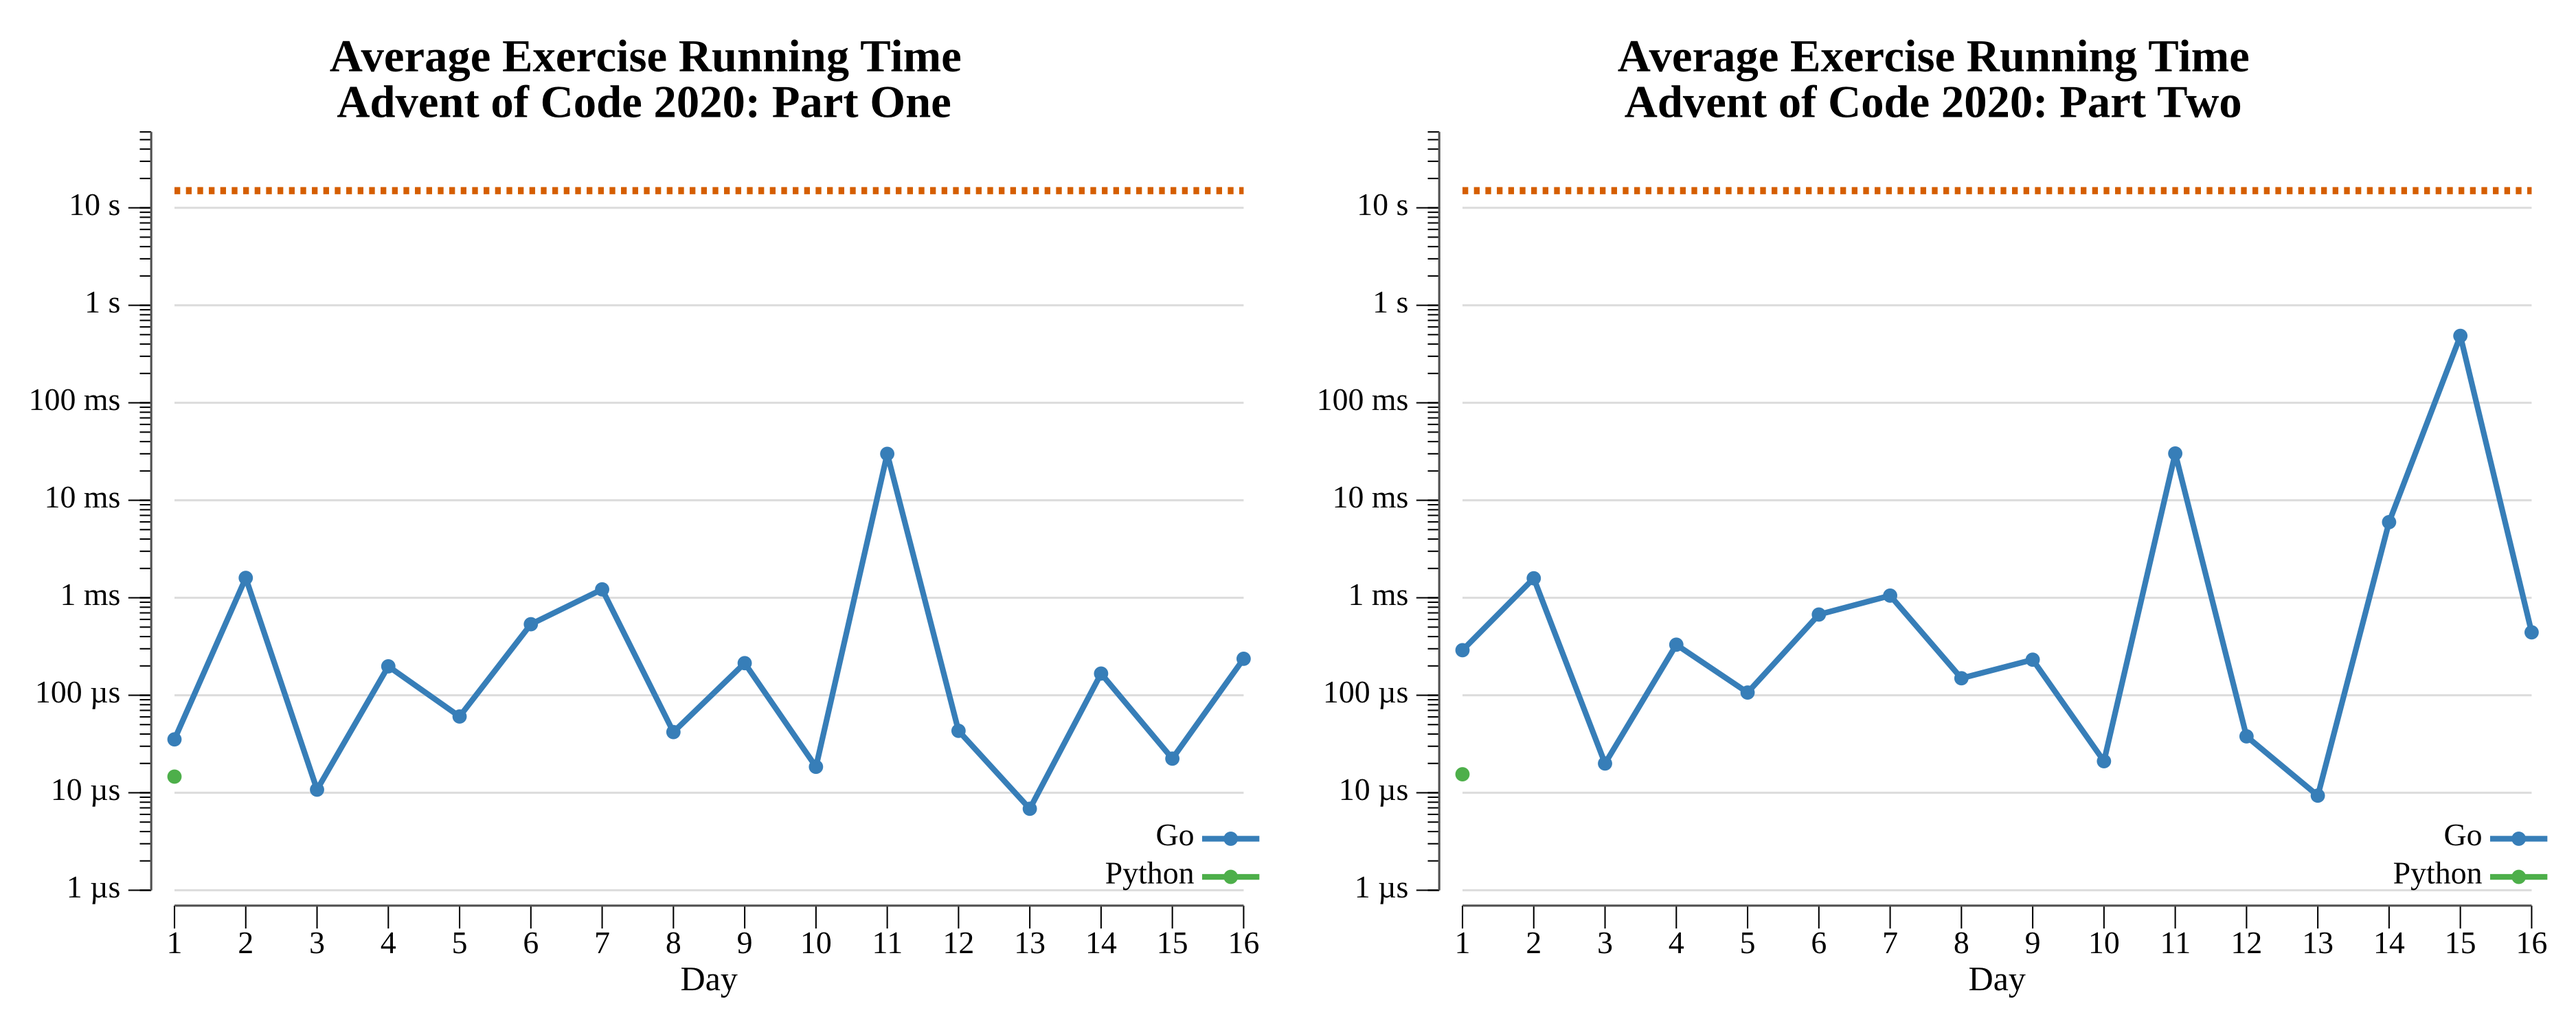
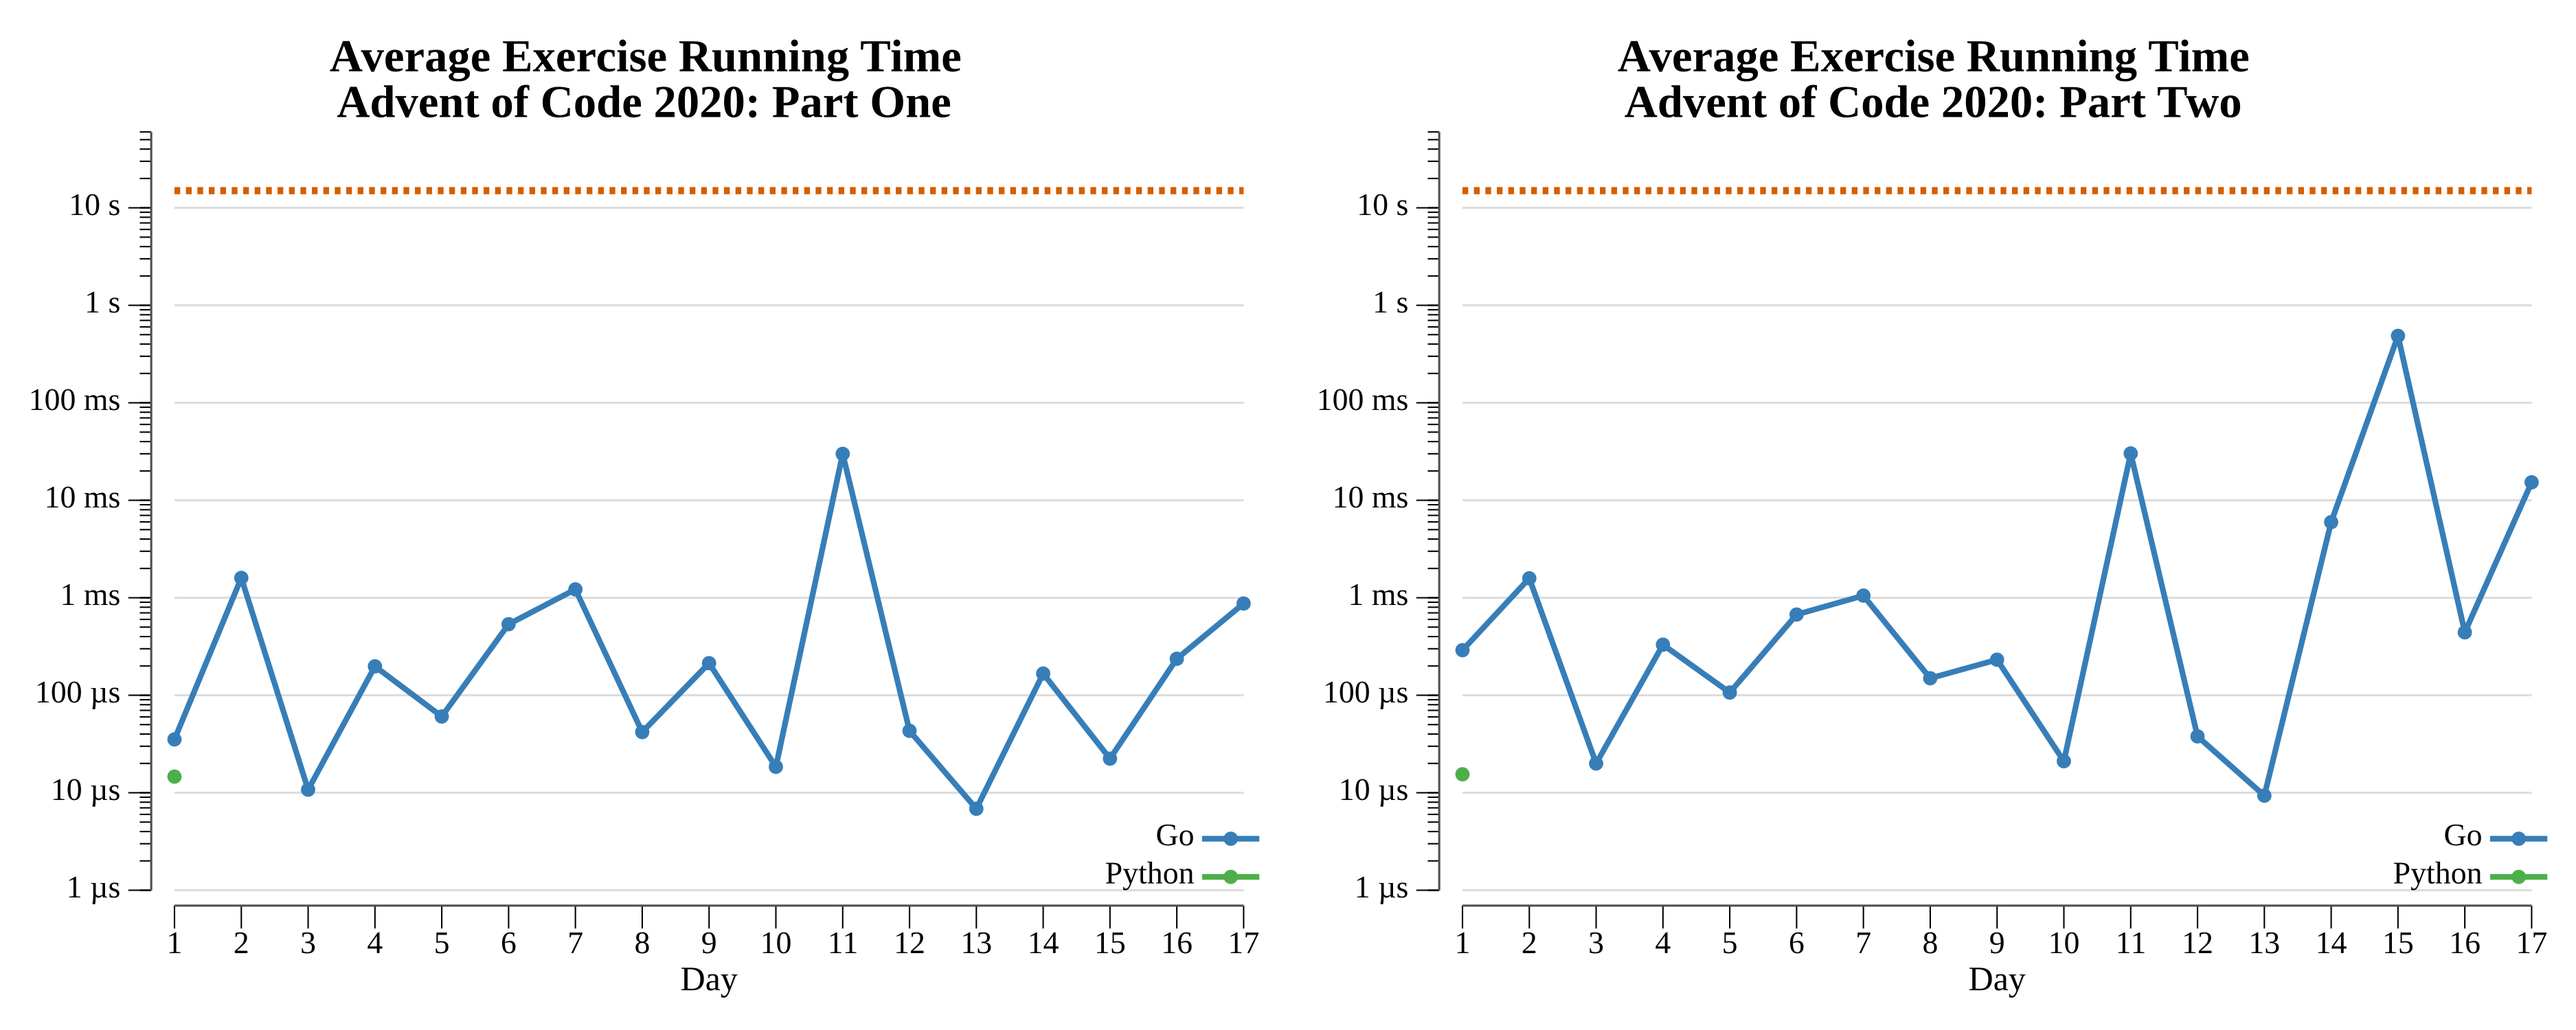
2020 day 17

diff --git a/exercises/2020/17-conwayCubes/go/exercise.go b/exercises/2020/17-conwayCubes/go/exercise.go
@@ -1,0 +1,95 @@
+package exercises
+
+import (
+	"fmt"
+	"strings"
+
+	"github.com/asphaltbuffet/advent-of-code/internal/common"
+)
+
+// Exercise for Advent of Code 2020 day 17.
+type Exercise struct {
+	common.BaseExercise
+}
+
+// coord is a 4D point; 3D simulations pin the w axis to 0.
+type coord [4]int
+
+// parseActive reads the initial slice into a set of active coordinates on the z=0
+// (and w=0) plane.
+func parseActive(instr string) map[coord]bool {
+	active := map[coord]bool{}
+	for y, line := range strings.Split(strings.TrimSpace(instr), "\n") {
+		for x, c := range line {
+			if c == '#' {
+				active[coord{x, y, 0, 0}] = true
+			}
+		}
+	}
+	return active
+}
+
+// neighborOffsets returns every nonzero offset over `dims` dimensions (the
+// remaining axes stay 0), i.e. 26 offsets for 3D and 80 for 4D.
+func neighborOffsets(dims int) []coord {
+	var offsets []coord
+	ranges := [4][2]int{{0, 0}, {0, 0}, {0, 0}, {0, 0}}
+	for i := 0; i < dims; i++ {
+		ranges[i] = [2]int{-1, 1}
+	}
+	for dx := ranges[0][0]; dx <= ranges[0][1]; dx++ {
+		for dy := ranges[1][0]; dy <= ranges[1][1]; dy++ {
+			for dz := ranges[2][0]; dz <= ranges[2][1]; dz++ {
+				for dw := ranges[3][0]; dw <= ranges[3][1]; dw++ {
+					if dx == 0 && dy == 0 && dz == 0 && dw == 0 {
+						continue
+					}
+					offsets = append(offsets, coord{dx, dy, dz, dw})
+				}
+			}
+		}
+	}
+	return offsets
+}
+
+// simulateTo runs `cycles` steps of the Conway rules over `dims` dimensions and
+// returns the final active set.
+func simulateTo(active map[coord]bool, dims, cycles int) map[coord]bool {
+	offsets := neighborOffsets(dims)
+
+	for step := 0; step < cycles; step++ {
+		// Tally active-neighbor counts for every cell adjacent to an active one.
+		counts := map[coord]int{}
+		for c := range active {
+			for _, o := range offsets {
+				n := coord{c[0] + o[0], c[1] + o[1], c[2] + o[2], c[3] + o[3]}
+				counts[n]++
+			}
+		}
+
+		next := map[coord]bool{}
+		for c, n := range counts {
+			if n == 3 || (n == 2 && active[c]) {
+				next[c] = true
+			}
+		}
+		active = next
+	}
+
+	return active
+}
+
+// simulate returns the final active count after running the rules.
+func simulate(active map[coord]bool, dims, cycles int) int {
+	return len(simulateTo(active, dims, cycles))
+}
+
+// One returns the number of active cubes after 6 cycles in 3D.
+func (e Exercise) One(instr string) (any, error) {
+	return fmt.Sprintf("%d", simulate(parseActive(instr), 3, 6)), nil
+}
+
+// Two returns the number of active cells after 6 cycles in 4D.
+func (e Exercise) Two(instr string) (any, error) {
+	return fmt.Sprintf("%d", simulate(parseActive(instr), 4, 6)), nil
+}

diff --git a/exercises/2020/17-conwayCubes/go/vis.go b/exercises/2020/17-conwayCubes/go/vis.go
@@ -1,0 +1,96 @@
+package exercises
+
+import (
+	"fmt"
+	"image"
+	"image/color"
+	"image/png"
+	"os"
+	"path/filepath"
+
+	"golang.org/x/image/font"
+	"golang.org/x/image/font/basicfont"
+	"golang.org/x/image/math/fixed"
+)
+
+// Vis renders the final 3D state (part one, after 6 cycles) as a row of z-slices:
+// each panel is the 2D x/y grid of active cubes at one z level, laid out from the
+// most negative z to the most positive. The seed lives on z=0, so the structure
+// is symmetric about the center panel. Active cubes are bright yellow on a dark
+// field — a single active/inactive distinction that is inherently grayscale-safe —
+// and each panel is labeled with its z.
+func (e Exercise) Vis(instr, outdir string) error {
+	active := simulateTo(parseActive(instr), 3, 6)
+
+	// Bounds over x, y, z.
+	minX, maxX := 1<<30, -(1 << 30)
+	minY, maxY := 1<<30, -(1 << 30)
+	minZ, maxZ := 1<<30, -(1 << 30)
+	for c := range active {
+		minX, maxX = min(minX, c[0]), max(maxX, c[0])
+		minY, maxY = min(minY, c[1]), max(maxY, c[1])
+		minZ, maxZ = min(minZ, c[2]), max(maxZ, c[2])
+	}
+	gw := maxX - minX + 1
+	gh := maxY - minY + 1
+	nZ := maxZ - minZ + 1
+
+	const (
+		cell = 8
+		gap  = 16
+		mL   = 12
+		mT   = 46
+	)
+	panelW := gw * cell
+	panelH := gh * cell
+	W := mL*2 + nZ*panelW + (nZ-1)*gap
+	H := mT + panelH + 24
+
+	img := image.NewRGBA(image.Rect(0, 0, W, H))
+	bg := color.RGBA{0x11, 0x14, 0x18, 0xff}
+	for y := 0; y < H; y++ {
+		for x := 0; x < W; x++ {
+			img.SetRGBA(x, y, bg)
+		}
+	}
+
+	cellBG := color.RGBA{0x1b, 0x1f, 0x26, 0xff}
+	on := color.RGBA{0xF0, 0xE4, 0x42, 0xff}
+
+	label := func(x, y int, s string, c color.RGBA) {
+		(&font.Drawer{Dst: img, Src: image.NewUniform(c), Face: basicfont.Face7x13, Dot: fixed.P(x, y)}).DrawString(s)
+	}
+	white := color.RGBA{0xe8, 0xec, 0xf4, 0xff}
+	gray := color.RGBA{0x9a, 0xa4, 0xb2, 0xff}
+	label(mL, 24, "Conway Cubes: active cubes by z-slice (part one, after 6 cycles)", white)
+
+	for zi := 0; zi < nZ; zi++ {
+		z := minZ + zi
+		px0 := mL + zi*(panelW+gap)
+		for gy := 0; gy < gh; gy++ {
+			for gx := 0; gx < gw; gx++ {
+				c := cellBG
+				if active[coord{minX + gx, minY + gy, z, 0}] {
+					c = on
+				}
+				for dy := 0; dy < cell-1; dy++ {
+					for dx := 0; dx < cell-1; dx++ {
+						img.SetRGBA(px0+gx*cell+dx, mT+gy*cell+dy, c)
+					}
+				}
+			}
+		}
+		zl := "z=0"
+		if z != 0 {
+			zl = fmt.Sprintf("z=%d", z)
+		}
+		label(px0+panelW/2-14, mT+panelH+16, zl, gray)
+	}
+
+	f, err := os.Create(filepath.Join(outdir, "conway-cubes.png"))
+	if err != nil {
+		return err
+	}
+	defer f.Close()
+	return png.Encode(f, img)
+}

diff --git a/exercises/2020/17-conwayCubes/README.md b/exercises/2020/17-conwayCubes/README.md
@@ -1,0 +1,50 @@
+# [Day 17: Conway Cubes](https://adventofcode.com/2020/day/17)
+
+<!-- These are helper text to make formatting the yearly readme consistent and easier...
+
+[Day 17: Conway Cubes][rm17]
+[Go][go17]
+
+[rm17]: 17-conwayCubes/README.md
+[go17]: 17-conwayCubes/go
+
+-->
+
+## Notes
+
+Game of Life in higher dimensions over an infinite grid. Active cells are stored
+sparsely in a coordinate set, and each cycle tallies active-neighbor counts by
+iterating the active cells and bumping all of their neighbor slots — cost scales
+with the number of active cells, not the bounding volume. A shared 4D `coord`
+(with unused axes pinned to 0) and a dimension-aware neighbor-offset generator let
+both parts run the same simulation.
+
+- **Part One** runs 6 cycles in 3D (26 neighbors).
+- **Part Two** runs 6 cycles in 4D (80 neighbors).
+
+## Go
+
+```text
+────────────────────────────────────────
+─      2020 Day 17: Conway Cubes       ─
+────────────────────────────────────────
+
+Solving (Go)…
+1.0:  PASS             0.884ms
+2.0:  PASS            16.671ms
+```
+
+## Visualization
+
+The final 3D state (Part One, after 6 cycles) exploded into z-slices: each panel
+is the x/y grid of active cubes at one z level, laid out from the most negative z
+to the most positive. Since the seed lives on z=0, the structure is symmetric
+about the center panel — the z=-4 and z=+4 slices match, and so on inward. Active
+cubes are bright on a dark field, an active/inactive distinction that is
+inherently readable in grayscale, and each panel is labeled with its z.
+
+![Active cubes by z-slice](conway-cubes.png)
+
+## Run Times
+
+![Day 17 run-time graphs](run-times.png)

diff --git a/exercises/2020/README.md b/exercises/2020/README.md
@@ -22,7 +22,7 @@
 | [Day 14: Docking Data][rm_14] |  ★ ★  | [Go][go_14] |
 | [Day 15: Rambunctious Recitation][rm_15] |  ★ ★  | [Go][go_15] |
 | [Day 16: Ticket Translation][rm_16] |  ★ ★  | [Go][go_16] |
-| 17                           |  ☆ ☆  |            |
+| [Day 17: Conway Cubes][rm_17] |  ★ ★  | [Go][go_17] |
 | 18                           |  ☆ ☆  |            |
 | 19                           |  ☆ ☆  |            |
 | 20                           |  ☆ ☆  |            |
@@ -64,6 +64,8 @@
 [go_15]: 15-rambunctiousRecitation/go
 [rm_16]: 16-ticketTranslation/README.md
 [go_16]: 16-ticketTranslation/go
+[rm_17]: 17-conwayCubes/README.md
+[go_17]: 17-conwayCubes/go
 
 ## 2020 Run Times
 
